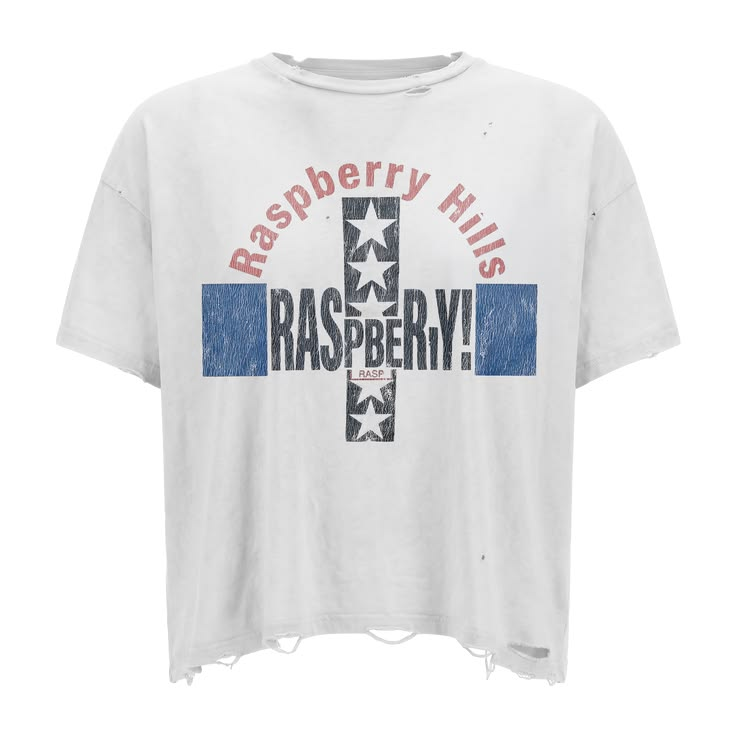
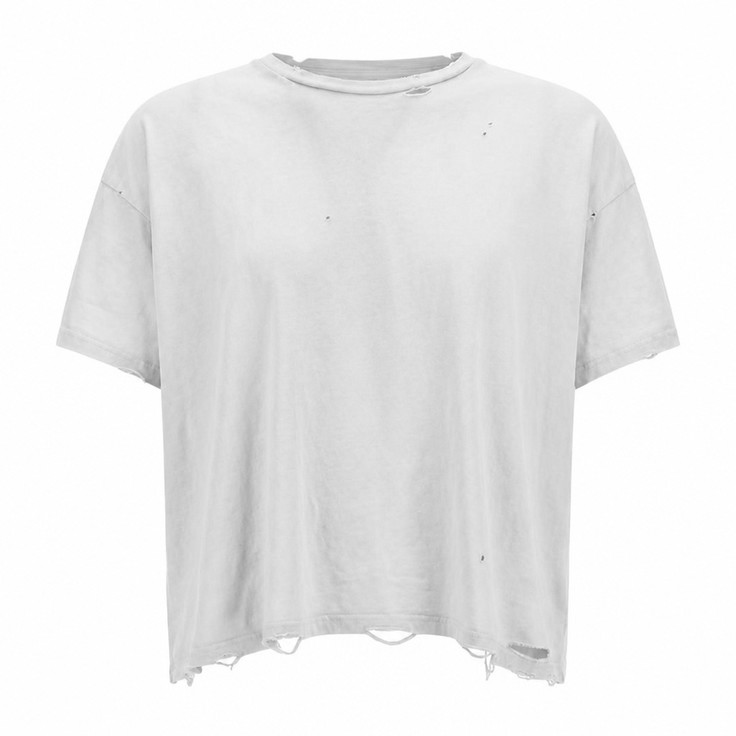
Show blank tee templates instead of other brands' graphics.

Changed region(s): [[0.25, 0.2188, 0.75, 0.625]]

diff --git a/src/looks.ts b/src/looks.ts
@@ -57,7 +57,7 @@ export const LOOKS: Look[] = [
     name: "Saint Distressed Tee",
     garment: "Tee",
     shot: "Studio",
-    summary: "Cropped off-white tee, frayed edges, faded icon print.",
+    summary: "Cropped off-white tee, frayed edges, black studio.",
     prompt: TEMPLATE_TRANSFER_PROMPT,
     refs: [],
     aspect: "portrait",
@@ -67,7 +67,7 @@ export const LOOKS: Look[] = [
     name: "Raspberry Hills Tee",
     garment: "Tee",
     shot: "Flat lay",
-    summary: "Oversized off-white tee, frayed collar, cracked vintage print.",
+    summary: "Oversized off-white tee, frayed collar, torn hem.",
     prompt: TEMPLATE_TRANSFER_PROMPT,
     refs: [],
     aspect: "square",
@@ -77,7 +77,7 @@ export const LOOKS: Look[] = [
     name: "Archives Tee",
     garment: "Tee",
     shot: "Flat lay",
-    summary: "Boxy cream tee, thick collar, archival collage print.",
+    summary: "Boxy cream tee, thick collar, concrete floor.",
     prompt: TEMPLATE_TRANSFER_PROMPT,
     refs: [],
     aspect: "portrait",
@@ -87,7 +87,7 @@ export const LOOKS: Look[] = [
     name: "Pretty Toxic Tee",
     garment: "Tee",
     shot: "Flat lay",
-    summary: "White crew tee, sharp-to-blur print, concrete floor.",
+    summary: "White crew tee on a grey floor.",
     prompt: TEMPLATE_TRANSFER_PROMPT,
     refs: [],
     aspect: "portrait",
@@ -97,7 +97,7 @@ export const LOOKS: Look[] = [
     name: "Palywood Tee",
     garment: "Tee",
     shot: "Studio",
-    summary: "Distressed grey tee, collage print, feathered white studio.",
+    summary: "Distressed grey tee, holes, white studio.",
     prompt: TEMPLATE_TRANSFER_PROMPT,
     refs: [],
     aspect: "portrait",
@@ -107,7 +107,7 @@ export const LOOKS: Look[] = [
     name: "Shim Tee",
     garment: "Tee",
     shot: "Studio",
-    summary: "Oversized faded black tee, frayed collar, grainy collage print.",
+    summary: "Oversized faded black tee, frayed collar, wash.",
     prompt: TEMPLATE_TRANSFER_PROMPT,
     refs: [],
     aspect: "portrait",
@@ -117,7 +117,7 @@ export const LOOKS: Look[] = [
     name: "Alice Galerie Tee",
     garment: "Tee",
     shot: "Studio",
-    summary: "Distressed black tee, torn hem, triptych print.",
+    summary: "Distressed black tee, torn hem, holes.",
     prompt: TEMPLATE_TRANSFER_PROMPT,
     refs: [],
     aspect: "portrait",
